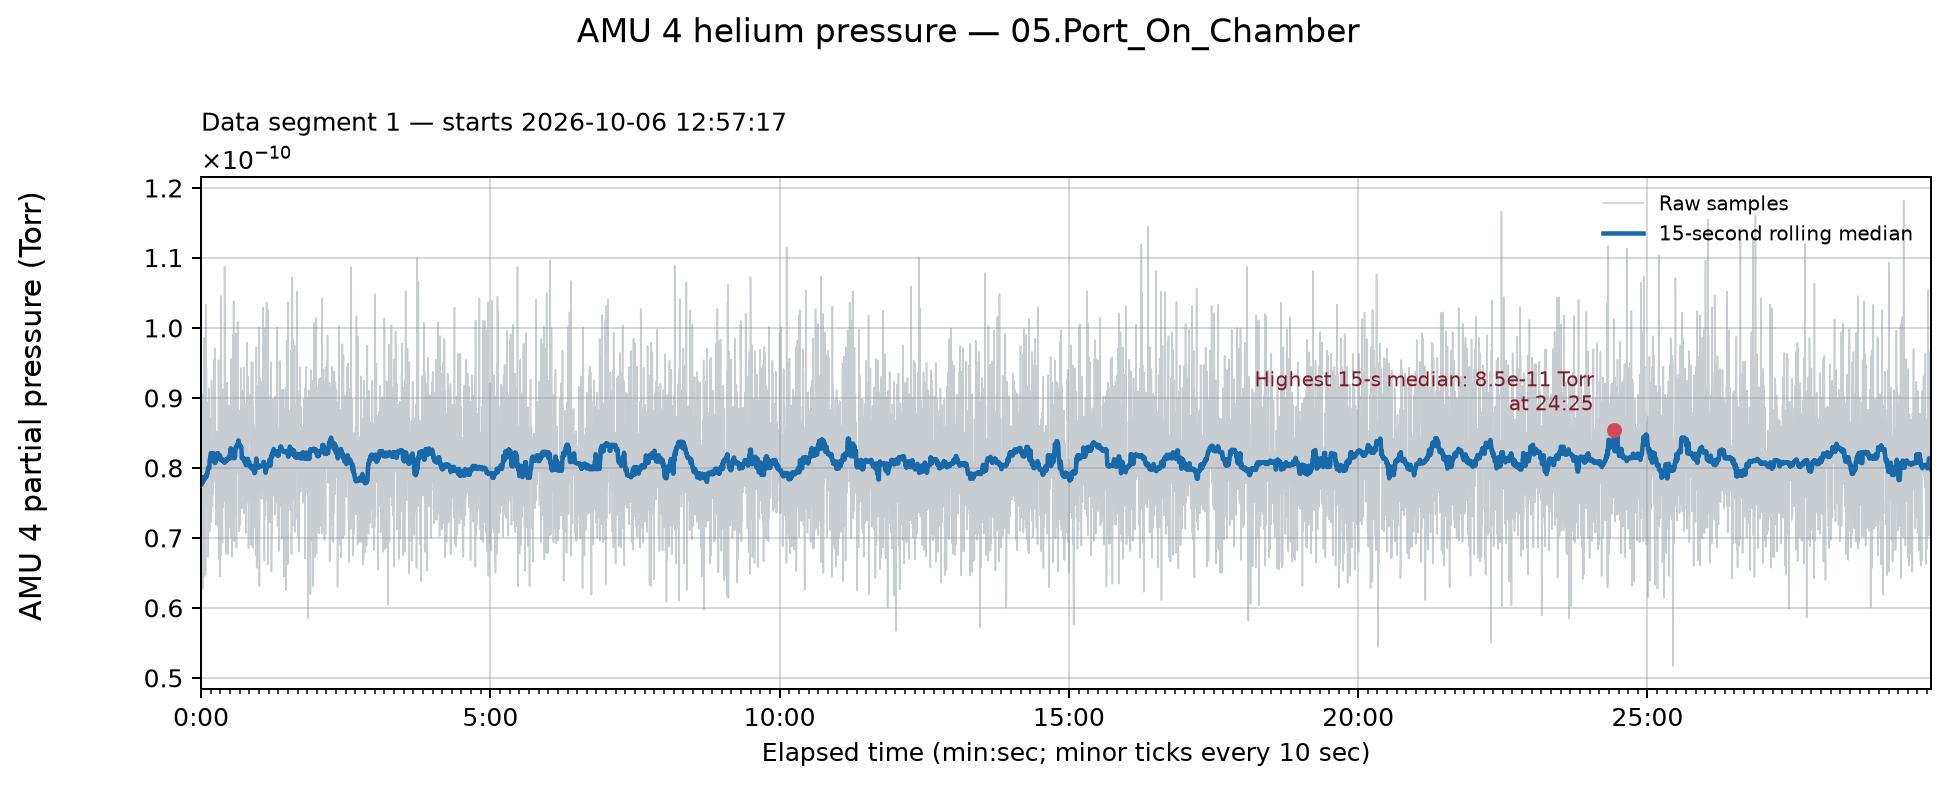
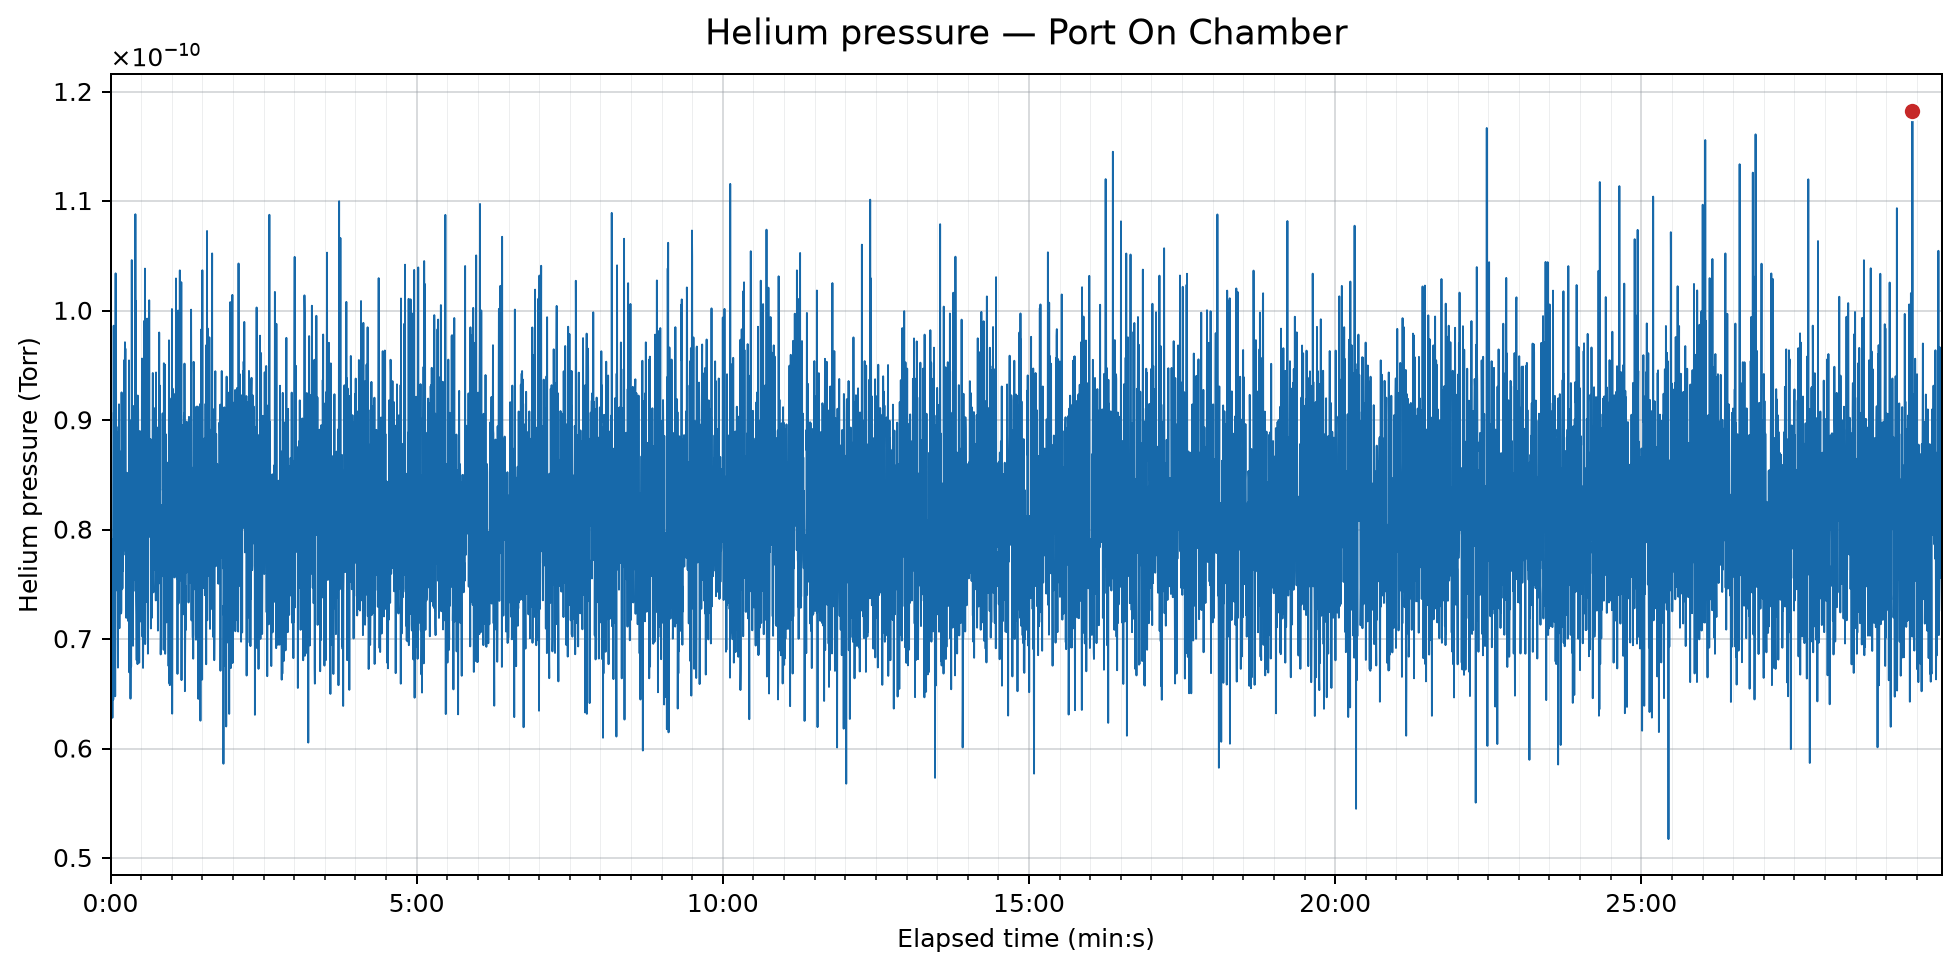
applied linear and quadratic fits

diff --git a/rga_analyze/pipeline.py b/rga_analyze/pipeline.py
@@ -6,9 +6,9 @@ import re
 from pathlib import Path
 
 import matplotlib
-
 matplotlib.use("Agg")
 import matplotlib.pyplot as plt
+import numpy as np
 from matplotlib.ticker import FuncFormatter, MultipleLocator
 import pandas as pd
 
@@ -74,97 +74,93 @@ def read_helium_file(path: Path, root: Path) -> tuple[list[dict], str | None]:
     return rows, unit
 
 
-def plot_location(data: pd.DataFrame, location: str, output: Path) -> None:
+def plot_location(
+    data: pd.DataFrame,
+    location: str,
+    output: Path,
+    fit_degree: int | None = None,
+) -> None:
+    if fit_degree not in (None, 1, 2):
+        raise ValueError("fit_degree must be None, 1 (linear), or 2 (quadratic)")
+
     data = data.sort_values("timestamp").copy()
-    sessions = data["timestamp"].diff().dt.total_seconds().gt(120).cumsum()
-    groups = [part for _, part in data.groupby(sessions)]
     units = data["pressure_unit"].dropna().unique()
-    ylabel = f"AMU 4 partial pressure ({units[0]})" if len(units) == 1 else "AMU 4 signal (pressure unit unavailable)"
+    ylabel = f"Helium pressure ({units[0]})" if len(units) == 1 else "Helium pressure (unit unavailable)"
+    location_label = re.sub(r"^\d+\.", "", location.rsplit("/", 1)[-1]).replace("_", " ")
 
-    fig, axes = plt.subplots(
-        len(groups), 1, figsize=(11, max(4.5, len(groups) * 3.8)), squeeze=False, sharey=True
+    start = data["timestamp"].iloc[0]
+    seconds = (data["timestamp"] - start).dt.total_seconds()
+    segments = seconds.diff().gt(2).cumsum()
+    duration = float(seconds.iloc[-1])
+
+    fig, ax = plt.subplots(figsize=(11, 5.5))
+    for segment_id in segments.unique():
+        mask = segments == segment_id
+        ax.plot(
+            seconds[mask],
+            data.loc[mask, "pressure"],
+            color="#1769aa",
+            linewidth=0.75,
+        )
+
+    if fit_degree is not None:
+        fit = np.polynomial.Polynomial.fit(
+            seconds.to_numpy(dtype=float),
+            data["pressure"].to_numpy(dtype=float),
+            fit_degree,
+        )
+        fit_seconds = np.linspace(0, duration, 500)
+        fit_name = "linear" if fit_degree == 1 else "quadratic"
+        ax.plot(
+            fit_seconds,
+            fit(fit_seconds),
+            color="#e67e22",
+            linewidth=2.2,
+            zorder=4,
+        )
+
+    gaps = seconds.diff()
+    for position in range(1, len(data)):
+        gap_seconds = float(gaps.iloc[position])
+        if gap_seconds <= 2:
+            continue
+        left = float(seconds.iloc[position - 1])
+        right = float(seconds.iloc[position])
+        ax.axvspan(left, right, color="#c62828", alpha=0.14, zorder=0)
+        ax.axvline(left, color="#c62828", linewidth=0.8, alpha=0.8, linestyle="--")
+        ax.axvline(right, color="#c62828", linewidth=0.8, alpha=0.8, linestyle="--")
+
+    peak_position = int(data["pressure"].to_numpy().argmax())
+    peak_time = float(seconds.iloc[peak_position])
+    peak_pressure = float(data["pressure"].iloc[peak_position])
+    ax.scatter(
+        [peak_time],
+        [peak_pressure],
+        color="#c62828",
+        edgecolor="white",
+        linewidth=0.8,
+        s=48,
+        zorder=5,
     )
-    previous_end = None
-    for number, (ax, session) in enumerate(zip(axes[:, 0], groups), start=1):
-        session = session.sort_values("timestamp").copy()
-        start = session["timestamp"].iloc[0]
-        end = session["timestamp"].iloc[-1]
-        seconds = (session["timestamp"] - start).dt.total_seconds()
-        pressure = session.set_index("timestamp")["pressure"]
-        trend = pressure.rolling("15s", center=True, min_periods=1).median()
-        session["trend"] = trend.to_numpy()
-        segments = seconds.diff().gt(2).cumsum()
-        for segment_id in segments.unique():
-            mask = segments == segment_id
-            ax.plot(
-                seconds[mask],
-                session.loc[mask, "pressure"],
-                color="#87919b",
-                linewidth=0.65,
-                alpha=0.45,
-                label="Raw samples" if segment_id == segments.iloc[0] else None,
-            )
-            ax.plot(
-                seconds[mask],
-                session.loc[mask, "trend"],
-                color="#1769aa",
-                linewidth=1.8,
-                label="15-second rolling median" if segment_id == segments.iloc[0] else None,
-            )
-        for position in range(1, len(session)):
-            gap = float(seconds.iloc[position] - seconds.iloc[position - 1])
-            if gap > 10:
-                left = float(seconds.iloc[position - 1])
-                right = float(seconds.iloc[position])
-                ax.axvspan(left, right, color="#d1495b", alpha=0.08)
-                ax.text(
-                    (left + right) / 2,
-                    0.97,
-                    f"No samples for {gap:.0f} sec",
-                    transform=ax.get_xaxis_transform(),
-                    ha="center",
-                    va="top",
-                    fontsize=8,
-                    color="#7f1d2d",
-                )
 
-        duration = float(seconds.iloc[-1])
-        major_tick = 300 if duration > 720 else 60
-        peak_position = int(session["trend"].to_numpy().argmax())
-        peak_time = float(seconds.iloc[peak_position])
-        peak_pressure = float(session["trend"].iloc[peak_position])
-        ax.scatter([peak_time], [peak_pressure], color="#d1495b", s=25, zorder=4)
-        peak_near_right = peak_time > duration * 0.7
-        ax.annotate(
-            f"Highest 15-s median: {peak_pressure:.2g} {units[0] if len(units) == 1 else ''}\n"
-            f"at {int(peak_time // 60)}:{int(peak_time % 60):02d}",
-            xy=(peak_time, peak_pressure),
-            xytext=(-8 if peak_near_right else 8, 8),
-            textcoords="offset points",
-            ha="right" if peak_near_right else "left",
-            fontsize=8,
-            color="#7f1d2d",
-        )
-        title = f"Data segment {number} — starts {start:%Y-%m-%d %H:%M:%S}"
-        if previous_end is not None:
-            missing_seconds = (start - previous_end).total_seconds()
-            title += f" ({missing_seconds / 60:.1f} min with no samples before this)"
-        ax.set_title(title, loc="left", fontsize=10)
-        ax.set_xlim(0, max(duration, 1))
-        ax.xaxis.set_major_locator(MultipleLocator(major_tick))
-        ax.xaxis.set_minor_locator(MultipleLocator(10))
-        ax.xaxis.set_major_formatter(
-            FuncFormatter(lambda value, _: f"{int(value // 60)}:{int(value % 60):02d}")
-        )
-        ax.ticklabel_format(axis="y", style="sci", scilimits=(-2, 2), useMathText=True)
-        ax.grid(axis="both", which="major", color="#9aa0a6", alpha=0.55, linewidth=0.6)
-        ax.legend(loc="upper right", frameon=False, fontsize=8)
-        previous_end = end
-
-    fig.supylabel(ylabel)
-    axes[-1, 0].set_xlabel("Elapsed time (min:sec; minor ticks every 10 sec)")
-    fig.suptitle(f"AMU 4 helium pressure — {location}", fontsize=13)
-    fig.tight_layout(rect=(0.04, 0.02, 1, 0.97))
+    major_tick = 300 if duration > 720 else 120 if duration > 360 else 60
+    minor_tick = 30 if duration > 720 else 10
+    ax.set_xlim(0, max(duration, 1))
+    ax.xaxis.set_major_locator(MultipleLocator(major_tick))
+    ax.xaxis.set_minor_locator(MultipleLocator(minor_tick))
+    ax.xaxis.set_major_formatter(
+        FuncFormatter(lambda value, _: f"{int(value // 60)}:{int(value % 60):02d}")
+    )
+    ax.set_xlabel("Elapsed time (min:s)")
+    ax.set_ylabel(ylabel)
+    title = f"Helium pressure — {location_label}"
+    if fit_degree is not None:
+        title += f" ({fit_name} fit)"
+    ax.set_title(title, fontsize=14, pad=12)
+    ax.ticklabel_format(axis="y", style="sci", scilimits=(-2, 2), useMathText=True)
+    ax.grid(axis="both", which="major", color="#9aa0a6", alpha=0.5, linewidth=0.6)
+    ax.grid(axis="x", which="minor", color="#c5c9cc", alpha=0.3, linewidth=0.4)
+    fig.tight_layout()
     output.parent.mkdir(parents=True, exist_ok=True)
     fig.savefig(output, dpi=180, bbox_inches="tight")
     plt.close(fig)
@@ -184,6 +180,7 @@ def analyze(root: Path, output: Path) -> dict:
             skipped_files.append(path.relative_to(root).as_posix())
 
     plot_dir = output / "plots" / "helium_by_location"
+    fit_dir = output / "plots" / "helium_by_location_fits"
     csv_dir = output / "processed_data" / "amu4_by_location"
     for location, rows in sorted(folders.items()):
         data = pd.DataFrame(rows).sort_values("timestamp").reset_index(drop=True)
@@ -194,6 +191,8 @@ def analyze(root: Path, output: Path) -> dict:
         csv_dir.mkdir(parents=True, exist_ok=True)
         data.to_csv(csv_dir / f"{filename}.csv", index=False)
         plot_location(data, location, plot_dir / f"{filename}.png")
+        plot_location(data, location, fit_dir / "linear" / f"{filename}.png", fit_degree=1)
+        plot_location(data, location, fit_dir / "quadratic" / f"{filename}.png", fit_degree=2)
 
     return {
         "locations": len(folders),

diff --git a/README.md b/README.md
@@ -24,16 +24,19 @@ python -m rga_analyze --root path/to/data --output path/to/results
 
 ## Results
 
-- `analysis_outputs/plots/helium_by_location/`: one time-series graph per location folder.
+- `analysis_outputs/plots/helium_by_location/`: raw, unfitted time-series graphs, one per location folder.
+- `analysis_outputs/plots/helium_by_location_fits/linear/`: raw readings with a straight-line fit across the full recording.
+- `analysis_outputs/plots/helium_by_location_fits/quadratic/`: raw readings with a second-degree (quadratic) fit across the full recording.
 - `analysis_outputs/processed_data/amu4_by_location/`: the AMU-4 samples used for each graph, with timestamps and source-file names.
 
 The run summary lists any CSV that did not contain usable chronological AMU-4 samples. Those files are left out rather than guessed into the plot.
 
 ## How to read the plots
 
-- Gray is the measured AMU-4 pressure; blue is its 15-second rolling median, which makes the slower trend easier to see.
-- The red dot marks the highest smoothed value in that segment. It is a visual guide, not an automatic leak verdict.
-- Time is elapsed minutes and seconds. Pressure units come from the RGA metadata.
-- Shaded, labeled blanks mean no samples were recorded; lines are not drawn across them. Large gaps get a separate panel.
+- Each plot shows raw helium pressure. There is no rolling median or smoothing.
+- The x-axis is elapsed time (`min:s`), starting from the first sample in that location folder. The y-axis uses the pressure unit in the RGA metadata.
+- The red point marks the highest measured sample; it is a visual reference, not an automatic leak verdict.
+- Red shading and dashed red edges mark time gaps longer than two seconds; the trace is not drawn across them.
+- Fit graphs add an orange curve to the same raw readings. The linear fit summarizes the average direction; the quadratic fit allows broad curvature. Both use the entire recording, so neither is designed to isolate a short-lived peak.
 
-The pipeline does not yet calculate a line equation or R². A single straight-line fit across an entire test could hide a brief helium peak. Those fits should be added for time ranges selected from the plots; their equation and R² describe that range's linear trend, not leak probability or leak rate. Raw files are never changed.
+These full-recording fits are exploratory visual comparisons, not a leak-rate calculation or a leak verdict. Use the raw plots to identify a time range before interpreting a short rise or peak; a fit over the entire test can hide local behavior. Source files are never changed.
